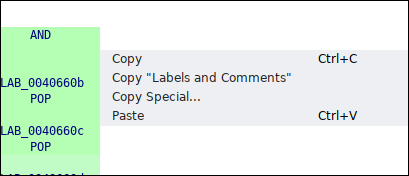
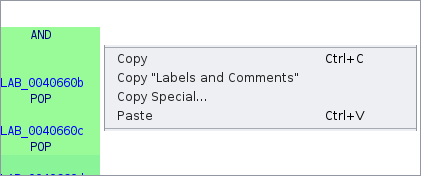
GP-3515 - New copy special action tests and help

Changed region(s): [[0.0, 0.0, 1.0, 1.0], [0.7628, 0.625, 0.8802, 0.6818]]

diff --git a/Ghidra/Features/Base/src/main/help/help/topics/ClipboardPlugin/Clipboard.htm b/Ghidra/Features/Base/src/main/help/help/topics/ClipboardPlugin/Clipboard.htm
@@ -175,6 +175,10 @@
 		example: <CODE>{ 0x66, 0x2e, 0x0f, 0x1f, 0x84 }</CODE>.</LI>
 
         <LI><B>Address</B> - Copies the address at the top of the selection.</LI>
+        
+        <LI><B>Address w/ Offset</B> - Copies the address at the cursor or each address in the 
+        current selection.   The text is formatted to show the offset from the entry point of the
+        function, for example: <CODE>main + 0x2</CODE></LI>
       </UL>
 
       <P>The Code Browser <B>Listing</B> window can paste the following formats:</P>

diff --git a/Ghidra/Features/Base/src/main/java/ghidra/app/plugin/core/clipboard/CodeBrowserClipboardProvider.java b/Ghidra/Features/Base/src/main/java/ghidra/app/plugin/core/clipboard/CodeBrowserClipboardProvider.java
@@ -25,7 +25,6 @@ import javax.swing.event.ChangeEvent;
 import javax.swing.event.ChangeListener;
 
 import org.apache.commons.lang3.StringUtils;
-import org.apache.commons.lang3.exception.ExceptionUtils;
 
 import docking.ActionContext;
 import docking.ComponentProvider;
@@ -61,6 +60,8 @@ public class CodeBrowserClipboardProvider extends ByteCopier
 
 	public static final ClipboardType ADDRESS_TEXT_TYPE =
 		new ClipboardType(DataFlavor.stringFlavor, "Address");
+	public static final ClipboardType ADDRESS_TEXT_WITH_OFFSET_TYPE =
+		new ClipboardType(DataFlavor.stringFlavor, "Address w/ Offset");
 	public static final ClipboardType CODE_TEXT_TYPE =
 		new ClipboardType(DataFlavor.stringFlavor, "Formatted Code");
 	public static final ClipboardType LABELS_COMMENTS_TYPE =
@@ -69,8 +70,6 @@ public class CodeBrowserClipboardProvider extends ByteCopier
 		new ClipboardType(CodeUnitInfoTransferable.localDataTypeFlavor, "Labels");
 	public static final ClipboardType COMMENTS_TYPE =
 		new ClipboardType(CodeUnitInfoTransferable.localDataTypeFlavor, "Comments");
-	public static final ClipboardType ADDRESS_SYM_TEXT_TYPE =
-		new ClipboardType(DataFlavor.stringFlavor, "Address SymString");
 
 	private static final List<ClipboardType> COPY_TYPES = createCopyTypesList();
 
@@ -87,7 +86,7 @@ public class CodeBrowserClipboardProvider extends ByteCopier
 		list.add(PYTHON_LIST_TYPE);
 		list.add(CPP_BYTE_ARRAY_TYPE);
 		list.add(ADDRESS_TEXT_TYPE);
-		list.add(ADDRESS_SYM_TEXT_TYPE);
+		list.add(ADDRESS_TEXT_WITH_OFFSET_TYPE);
 
 		return list;
 	}
@@ -187,7 +186,7 @@ public class CodeBrowserClipboardProvider extends ByteCopier
 		if (copyType == ADDRESS_TEXT_TYPE) {
 			return copyAddress();
 		}
-		else if (copyType == ADDRESS_SYM_TEXT_TYPE) {
+		else if (copyType == ADDRESS_TEXT_WITH_OFFSET_TYPE) {
 			return copySymbolString();
 		}
 		else if (copyType == CODE_TEXT_TYPE) {
@@ -310,89 +309,69 @@ public class CodeBrowserClipboardProvider extends ByteCopier
 	}
 
 	private Transferable copyAddress() {
-
-		AddressSetView addressSet = getSelectedAddresses();
-		AddressIterator it = addressSet.getAddresses(true);
-		String joined = StringUtils.join((Iterator<Address>) it, "\n");
-		return createStringTransferable(joined);
+		AddressSetView addrs = getSelectedAddresses();
+		Iterable<Address> it = addrs.getAddresses(true);
+		return createStringTransferable(StringUtils.join(it, "\n"));
 	}
 
 	private Transferable copySymbolString() {
 		Listing listing = currentProgram.getListing();
-		CodeUnitIterator codeUnits =
-			listing.getCodeUnits(getSelectedAddresses(), true);
-		StringBuilder builder = new StringBuilder();
+		List<String> strings = new ArrayList<>();
+		CodeUnitIterator codeUnits = listing.getCodeUnits(getSelectedAddresses(), true);
 		while (codeUnits.hasNext()) {
-			// TODO: Can we improve this for the usual case where all the address(es)
-			// are in the same function?
 			CodeUnit cu = codeUnits.next();
 			Address addr = cu.getAddress();
-			Function foo = listing.getFunctionContaining(addr);
-			boolean insideFunction = foo != null;
-			String addrStr;
-			if (insideFunction) {
-				Address entry = foo.getEntryPoint();			
-				int delta = addr.compareTo(entry);
-				if (delta > 0) {
-					addrStr = String.format("%s + %#x\n", foo, addr.subtract(entry));					
-				}
-				else if (delta == 0) {
-					addrStr = String.format("%s\n", foo);
-				} else {
-					addrStr = String.format("%s - %#x\n", foo, entry.subtract(addr));
-				}
-			} else {
-				// TODO: Probably better to have a second version for addresses of instructions
-				addrStr = String.format("%s\n", addr);
+			Function function = listing.getFunctionContaining(addr);
+			if (function == null) {
+				strings.add(addr.toString());
+				continue;
 			}
-			builder.append(addrStr);
+
+			String name = function.getName(true);
+			Address entry = function.getEntryPoint();
+			int delta = addr.compareTo(entry);
+			if (delta == 0) {
+				strings.add(name);
+			}
+			else if (delta > 0) {
+				strings.add(String.format("%s + %#x", name, addr.subtract(entry)));
+			}
+			else {
+				strings.add(String.format("%s - %#x", name, entry.subtract(addr)));
+			}
 		}
-		String joined = builder.toString();
-		return createStringTransferable(joined);
+		return createStringTransferable(StringUtils.join(strings, "\n"));
 	}
 
 	protected Transferable copyCode(TaskMonitor monitor) {
 
 		AddressSetView addressSet = getSelectedAddresses();
-		try {
-			TextLayoutGraphics g = new TextLayoutGraphics();
+		ListingModel listingModel = getListingModel();
+		TextLayoutGraphics g = new TextLayoutGraphics();
+		LayoutBackgroundColorManager colorMap =
+			new EmptyLayoutBackgroundColorManager(PAINT_CONTEXT.getBackground());
+		Rectangle rect = new Rectangle(Integer.MAX_VALUE, Integer.MAX_VALUE);
+		AddressRangeIterator ranges = addressSet.getAddressRanges();
+		while (ranges.hasNext() && !monitor.isCancelled()) {
+			AddressRange curRange = ranges.next();
+			Address address = curRange.getMinAddress();
+			Address maxAddress = curRange.getMaxAddress();
 
-			Rectangle rect = new Rectangle(Integer.MAX_VALUE, Integer.MAX_VALUE);
-
-			AddressRangeIterator rangeItr = addressSet.getAddressRanges();
-			while (rangeItr.hasNext()) {
-				AddressRange curRange = rangeItr.next();
-				Address curAddress = curRange.getMinAddress();
-				Address maxAddress = curRange.getMaxAddress();
-
-				// getAddressAfter(curAddress) returns null in certain situations
-				while (curAddress != null && curAddress.compareTo(maxAddress) <= 0) {
-					if (monitor.isCancelled()) {
-						break;
-					}
-
-					//Add the layout for the present address
-					Layout layout = getListingModel().getLayout(curAddress, false);
-					if (layout != null) {
-						LayoutBackgroundColorManager layoutColorMap =
-							new EmptyLayoutBackgroundColorManager(PAINT_CONTEXT.getBackground());
-						layout.paint(null, g, PAINT_CONTEXT, rect, layoutColorMap, null);
-						g.flush();
-					}
-					// may be null
-					curAddress = getListingModel().getAddressAfter(curAddress);
+			while (address != null && address.compareTo(maxAddress) <= 0) {
+				if (monitor.isCancelled()) {
+					break;
 				}
+
+				Layout layout = listingModel.getLayout(address, false);
+				if (layout != null) {
+					layout.paint(null, g, PAINT_CONTEXT, rect, colorMap, null);
+					g.flush();
+				}
+				address = listingModel.getAddressAfter(address);
 			}
-
-			return createStringTransferable(g.getBuffer().toString());
-		}
-		catch (Exception e) {
-			String message = "Copy failed: " + ExceptionUtils.getMessage(e);
-			Msg.error(this, message, e);
-			tool.setStatusInfo(message, true);
 		}
 
-		return null;
+		return createStringTransferable(g.getBuffer());
 	}
 
 	private Transferable copyByteString(Address address) {
@@ -401,7 +380,6 @@ public class CodeBrowserClipboardProvider extends ByteCopier
 	}
 
 	private CodeUnitInfoTransferable copyLabelsComments(boolean copyLabels, boolean copyComments) {
-
 		AddressSetView addressSet = getSelectedAddresses();
 		List<CodeUnitInfo> list = new ArrayList<>();
 		Address startAddr = addressSet.getMinAddress();

diff --git a/Ghidra/Features/Base/src/test.slow/java/ghidra/app/plugin/core/clipboard/CodeBrowserClipboardProviderTest.java b/Ghidra/Features/Base/src/test.slow/java/ghidra/app/plugin/core/clipboard/CodeBrowserClipboardProviderTest.java
@@ -93,6 +93,19 @@ public class CodeBrowserClipboardProviderTest extends AbstractGhidraHeadedIntegr
 		builder.createEmptyFunction("ghidra", "0x01002cf5", 1, dt, p);
 		builder.createEmptyFunction("sscanf", "0x0100415a", 1, dt, p);
 
+		// create a function for offset address copying
+		String address = "0x010023f5";
+		int length = 0x121;
+		builder.createEmptyFunction("main", address, length, dt, p);
+		builder.setBytes(address,
+			"55 8b ec 83 7d 14 00 56 8b 35 e0 10 00 01 57 74 09 ff 75 14 ff d6 8b f8 eb 02 33 " +
+				"ff ff 75 10 ff d6 03 c7 8d 44 00 02 50 6a 40 ff 15 dc 10 00 01 8b f0 85 f6 74 27 " +
+				"56 ff 75 14 ff 75 10 e8 5c ff ff ff ff 75 18 ff 75 0c 56 ff 75 08 ff 15 04 12 00 " +
+				"01 56 8b f8 ff 15 c0 10 00 01 eb 14 ff 75 18 ff 75 0c ff 75 10 ff 75 08 ff 15 04 " +
+				"12 00 01 8b f8 8b c7 5f 5e 5d c2 14");
+		builder.disassemble(address, length, true);
+		builder.createFunction(address);
+
 		builder.setBytes("0x0100418c", "ff 15 08 10 00 01");
 		builder.disassemble("0x0100418c", 6);
 
@@ -175,9 +188,48 @@ public class CodeBrowserClipboardProviderTest extends AbstractGhidraHeadedIntegr
 		assertBytesAt(pasteAddress, asciiByteString, 4);
 	}
 
+	@Test
+	public void testCopy_AddressWithOffset_InsideFunction() throws Exception {
+
+		String main = "0x010023f5";
+		String address = main;
+		clipboardProvider.setLocation(location(address));
+
+		ClipboardType type = CodeBrowserClipboardProvider.ADDRESS_TEXT_WITH_OFFSET_TYPE;
+		Transferable transferable = clipboardProvider.copySpecial(type, TaskMonitor.DUMMY);
+		String copiedString = (String) transferable.getTransferData(DataFlavor.stringFlavor);
+		assertEquals("main", copiedString);
+
+		address = "0x010023f7"; // 0x010023f5 + 2
+		clipboardProvider.setLocation(location(address));
+
+		type = CodeBrowserClipboardProvider.ADDRESS_TEXT_WITH_OFFSET_TYPE;
+		transferable = clipboardProvider.copySpecial(type, TaskMonitor.DUMMY);
+		copiedString = (String) transferable.getTransferData(DataFlavor.stringFlavor);
+		assertEquals("main + 0x2", copiedString);
+
+		clipboardProvider.setSelection(selection(main, 6));
+		type = CodeBrowserClipboardProvider.ADDRESS_TEXT_WITH_OFFSET_TYPE;
+		transferable = clipboardProvider.copySpecial(type, TaskMonitor.DUMMY);
+		copiedString = (String) transferable.getTransferData(DataFlavor.stringFlavor);
+		assertEquals("main\nmain + 0x2\nmain + 0x4", copiedString);
+	}
+
+	@Test
+	public void testCopy_AddressWithOffset_NoFunction() throws Exception {
+
+		String address = "0x01002cc0"; // data
+		clipboardProvider.setLocation(location(address));
+
+		ClipboardType type = CodeBrowserClipboardProvider.ADDRESS_TEXT_WITH_OFFSET_TYPE;
+		Transferable transferable = clipboardProvider.copySpecial(type, TaskMonitor.DUMMY);
+		String copiedString = (String) transferable.getTransferData(DataFlavor.stringFlavor);
+		assertEquals("01002cc0", copiedString);
+	}
+
 //==================================================================================================
 // Private Methods
-//==================================================================================================	
+//==================================================================================================
 
 	private void paste(String address, Transferable transferable) {
 

diff --git a/Ghidra/Test/IntegrationTest/src/screen/java/help/screenshot/ClipboardPluginScreenShots.java b/Ghidra/Test/IntegrationTest/src/screen/java/help/screenshot/ClipboardPluginScreenShots.java
@@ -110,10 +110,11 @@ public class ClipboardPluginScreenShots extends GhidraScreenShotGenerator {
 		JMenuItem item = (JMenuItem) elements[index];
 		Rectangle itemBounds = item.getBounds();
 
-		copySectionBounds.x = itemBounds.x;
-		copySectionBounds.y = itemBounds.y;
-		copySectionBounds.width = itemBounds.width;
-		height += itemBounds.height;
+		int padding = 5; // add some padding to get the menu item borders in the cropped image
+		copySectionBounds.x = itemBounds.x - padding;
+		copySectionBounds.y = itemBounds.y - padding;
+		copySectionBounds.width = itemBounds.width + (padding * 2);
+		height += itemBounds.height + (padding * 2);
 
 		item = (JMenuItem) elements[index + 1];
 		itemBounds = item.getBounds();
@@ -195,8 +196,7 @@ public class ClipboardPluginScreenShots extends GhidraScreenShotGenerator {
 		return waitForDialogComponent(CopyPasteSpecialDialog.class);
 	}
 
-	private ClipboardContentProviderService getClipboardService(
-			ClipboardPlugin clipboardPlugin) {
+	private ClipboardContentProviderService getClipboardService(ClipboardPlugin clipboardPlugin) {
 		Map<?, ?> serviceMap = (Map<?, ?>) getInstanceField("serviceActionMap", clipboardPlugin);
 		Set<?> keySet = serviceMap.keySet();
 		for (Object name : keySet) {
